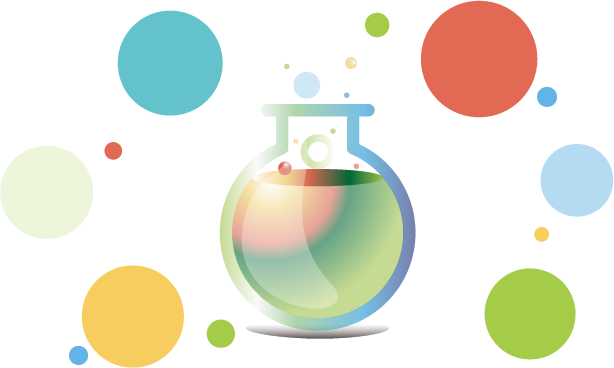
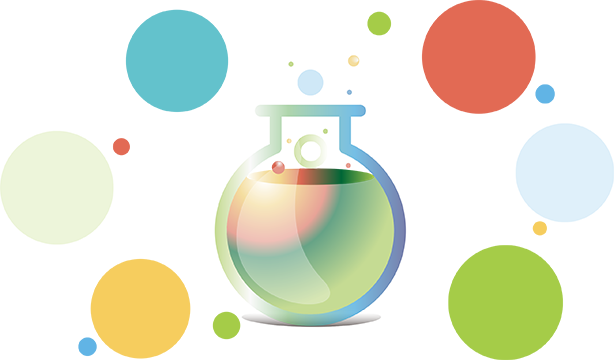
add

diff --git a/web-slim2/styles/styles.css b/web-slim2/styles/styles.css
@@ -546,7 +546,7 @@ body {
     display: block; }
   .index-res span {
     color: #666;
-    font-size: 0.5333333333rem;
+    font-size: 0.6rem;
     text-align: center;
     position: absolute; }
     .index-res span em {
@@ -557,7 +557,7 @@ body {
       transform: translate(-50%, -50%); }
   .index-res .tip-1 {
     top: 1.3333333333rem;
-    left: 3.6rem;
+    left: 3.8rem;
     width: 3.2666666667rem;
     height: 3.2666666667rem;
     border-radius: 3.2666666667rem; }
@@ -569,29 +569,28 @@ body {
     border-radius: 3.6rem; }
   .index-res .tip-3 {
     bottom: 1.2666666667rem;
-    left: 2.4666666667rem;
+    left: 2.6rem;
     width: 3.2666666667rem;
     height: 3.2666666667rem;
     border-radius: 3.2666666667rem; }
   .index-res .tip-4 {
-    bottom: 1.6rem;
-    right: 1.1666666667rem;
-    width: 2.8rem;
-    height: 2.8rem;
-    border-radius: 2.8rem; }
+    bottom: 1.3333333333rem;
+    right: 1.5333333333rem;
+    width: 3.6rem;
+    height: 3.6rem;
+    border-radius: 3.6rem; }
   .index-res .tip-5 {
-    bottom: 5.2666666667rem;
+    bottom: 4.9333333333rem;
     left: 0;
-    width: 2.8666666667rem;
-    height: 2.8666666667rem;
-    border-radius: 2.8666666667rem; }
+    width: 3.5333333333rem;
+    height: 3.5333333333rem;
+    border-radius: 3.6666666667rem; }
   .index-res .tip-6 {
-    font-size: 0.4666666667rem;
-    bottom: 5.9333333333rem;
+    bottom: 5.6666666667rem;
     right: 0;
-    width: 2.2666666667rem;
-    height: 2.2666666667rem;
-    border-radius: 2.2666666667rem; }
+    width: 3rem;
+    height: 3rem;
+    border-radius: 2.6666666667rem; }
 
 .style-blue {
   background: linear-gradient(90deg, #8cddff 0%, #71c8ff 100%) !important; }

diff --git a/web-slim2/styles/scss/_ty.scss b/web-slim2/styles/scss/_ty.scss
@@ -126,7 +126,7 @@ body {
 
     span {
         color: #666;
-        font-size: rem(16);
+        font-size: rem(18);
         text-align: center;
         position: absolute;
 
@@ -141,7 +141,7 @@ body {
 
     .tip-1 {
         top: rem(40);
-        left: rem(108);
+        left: rem(114);
         width: rem(98);
         height: rem(98);
         border-radius: rem(98);
@@ -157,35 +157,34 @@ body {
 
     .tip-3 {
         bottom: rem(38);
-        left: rem(74);
+        left: rem(78);
         width: rem(98);
         height: rem(98);
         border-radius: rem(98);
     }
 
     .tip-4 {
-        bottom: rem(48);
-        right: rem(35);
-        width: rem(84);
-        height: rem(84);
-        border-radius: rem(84);
+        bottom: rem(40);
+        right: rem(46);
+        width: rem(108);
+        height: rem(108);
+        border-radius: rem(108);
     }
 
     .tip-5 {
-        bottom: rem(158);
+        bottom: rem(148);
         left: 0;
-        width: rem(86);
-        height: rem(86);
-        border-radius: rem(86);
+        width: rem(106);
+        height: rem(106);
+        border-radius: rem(110);
     }
 
     .tip-6 {
-        font-size: rem(14);
-        bottom: rem(178);
+        bottom: rem(170);
         right: 0;
-        width: rem(68);
-        height: rem(68);
-        border-radius: rem(68);
+        width: rem(90);
+        height: rem(90);
+        border-radius: rem(80);
     }
 }
 
